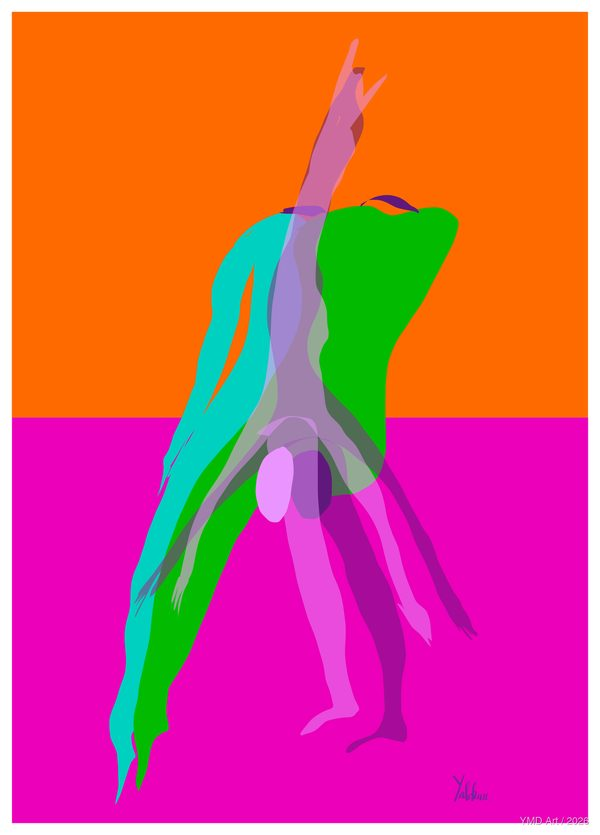
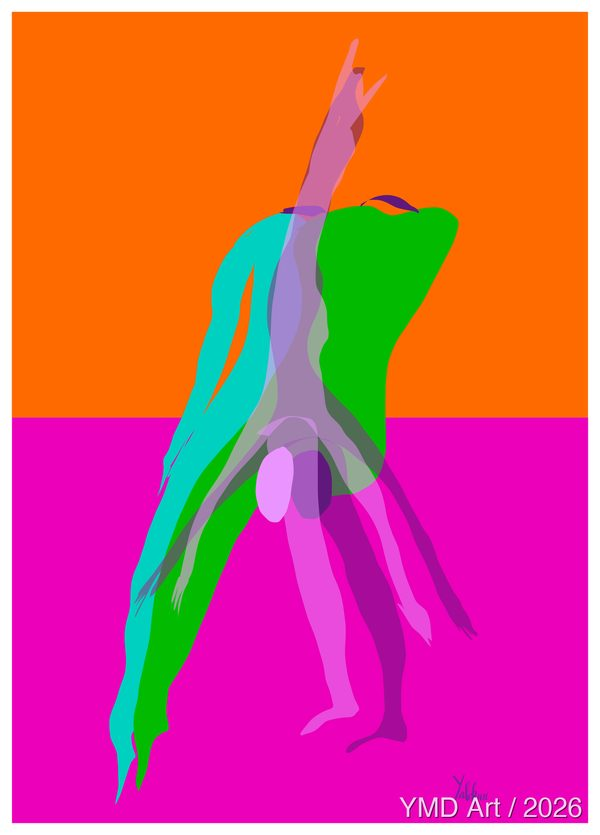
Gallery grouping, wider divider, panel scroll fix, stronger watermark
- View button now left-aligned under the details so it clearly belongs to
  its artwork (was floating right).
- Widen the centred card divider from 32px to 70px (still thin/subtle).
- Fix open-panel scroll regression: image area is touch-action:pan-y so a
  one-finger swipe scrolls the panel to reach the full image + details on
  mobile/iPad; only traps touch when actually zoomed in. Lock body scroll
  while the panel is open so the gallery behind stays fixed. Close control
  unaffected (fixed top-right).
- Regenerate all 11 images (+thumbs) with a more prominent watermark:
  font now scales to image width (~4.5%), higher opacity (205/255), still
  translucent with a soft shadow for legibility on any background.

Changed region(s): [[0.66, 0.9341, 0.99, 0.9964]]

diff --git a/index.html b/index.html
@@ -320,11 +320,11 @@
 
   .artwork-divider {
     display: block;
-    width: 32px;
+    width: 70px;
     height: 1px;
     background: var(--mid-grey);
     opacity: 0.55;
-    margin: 16px auto 4px;
+    margin: 18px auto 6px;
   }
 
   .artwork-meta {
@@ -336,7 +336,7 @@
 
   .artwork-price {
     display: flex;
-    justify-content: flex-end;
+    justify-content: flex-start;
     align-items: center;
     margin-top: 12px;
   }
@@ -390,6 +390,12 @@
     box-sizing: border-box;
     position: relative;
     overflow: hidden;
+    touch-action: pan-y;
+    -webkit-overflow-scrolling: touch;
+  }
+
+  /* When zoomed in, capture all touch gestures for pan/pinch (no page scroll). */
+  .lightbox-art.zoomed {
     touch-action: none;
   }
 
@@ -402,7 +408,7 @@
     will-change: transform;
     -webkit-backface-visibility: hidden;
     backface-visibility: hidden;
-    touch-action: none;
+    touch-action: pan-y;
     user-select: none;
     -webkit-user-select: none;
     -webkit-user-drag: none;
@@ -867,11 +873,13 @@ function openLightbox(i, trigger) {
   document.getElementById('lbEnquire').href =
     `mailto:hello@ymdart.co.uk?subject=${encodeURIComponent('Enquiry: ' + a.title)}&body=${encodeURIComponent('Hi Yalckun,\n\nI\u2019m interested in "' + a.title + '" and would like to know more.\n\n')}`;
   box.classList.add('open');
+  document.body.style.overflow = 'hidden';
   document.querySelector('.lightbox-close').focus();
 }
 
 function closeLightbox() {
   document.getElementById('lightbox').classList.remove('open');
+  document.body.style.overflow = '';
   resetZoom();
   if (lastFocusedEl) lastFocusedEl.focus();
 }
@@ -902,8 +910,8 @@ function applyZoom() {
   const img = zImg();
   if (!img) return;
   img.style.transform = `translate(${zX}px, ${zY}px) scale(${zScale})`;
-  const hint = artBox.querySelector('.zoom-hint');
-  if (hint) hint.style.opacity = zScale > 1 ? '0' : '1';
+  // Only trap touch (block panel scroll) while actually zoomed in.
+  artBox.classList.toggle('zoomed', zScale > 1);
 }
 
 function resetZoom() {
